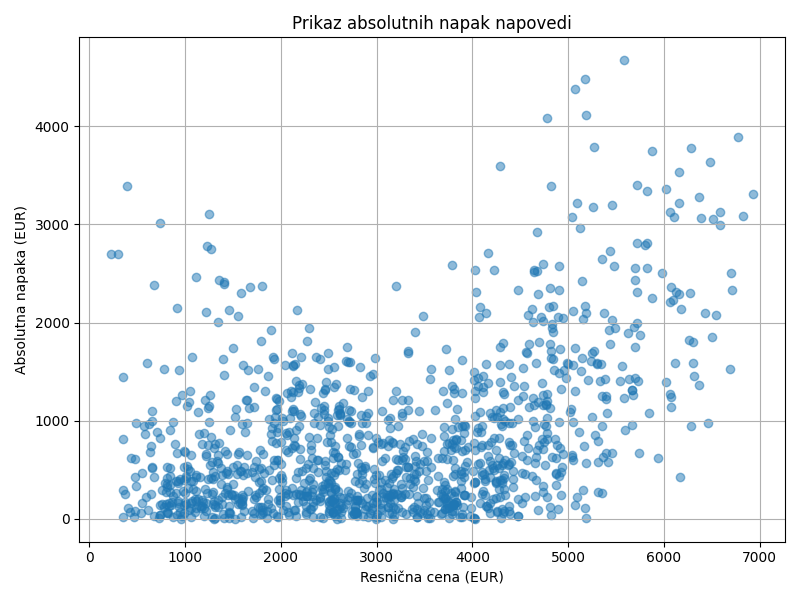
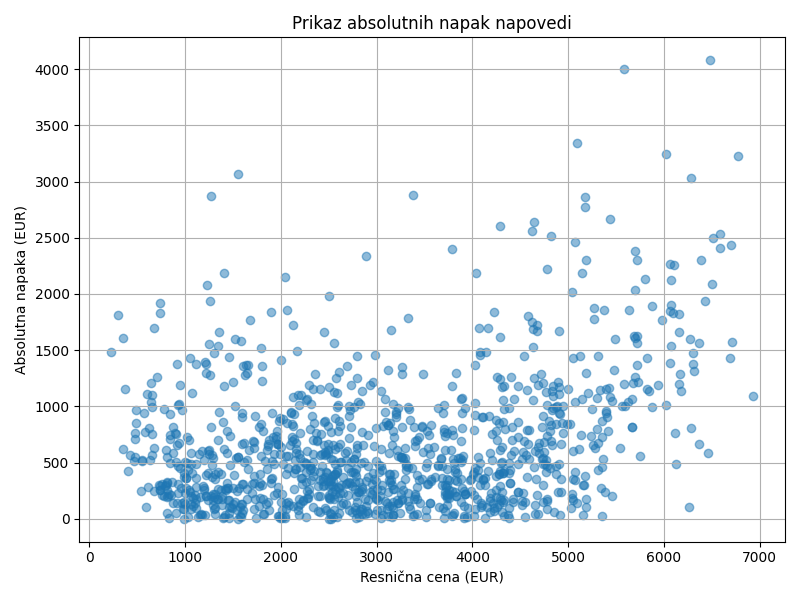
updated model conclusion

diff --git a/KONCNO.md b/KONCNO.md
@@ -122,12 +122,11 @@ Večina oglasov ima podanih eno ali več slik nepremičnine. V naši podatkovni 
 
 Pri učenju so veliko težav povzročile fotografije, ki slabo predstavijo nepremičnino npr., ko je namesto hiše slikan bližnji gozd. Take fotografije smo deloma počistili z ročnim pregledom. Za učenje modela nam je ostalo okoli 44.000 fotografij. Model smo testirali na 1.000 fotografijah oglasov, ki so bili objavljeni po prvotnem zbiranju oglasov.
 
-Model je najbolj točen pri slikah, ki so blizu povprečja, kot je razvidno iz spodnjega grafa absolutnih napak.
-
-<img src="slike/image_napake.png" width=600 />
-
 V povprečju se model zmoti za 810 EUR/m2 oz. za 33%, kar je precej slabo. Veliko napako pripisujemo veliki količini prej opisanega šuma med slikami. Poleg tega so cene nepremičnin neenakomerno porazdeljene.
 
+Za najbolj natančen model smo vzeli hibrid med modelom, ki napoveduje ceno iz slike, in med modelom, ki napoveduje ceno iz opisnih atributov. Vsak model je obtežen z 0,5. Z njim smo prišli do povprečne napake 28%. Model je najbolj točen pri primerih okoli povprečne cene (približno 3.000 EUR/m2), kar je razvidno tudi iz spodnjega grafa napak.
+
+<img src="slike/image_napake.png" width=600 />
 
 ### Interaktivni zemljevid
 
